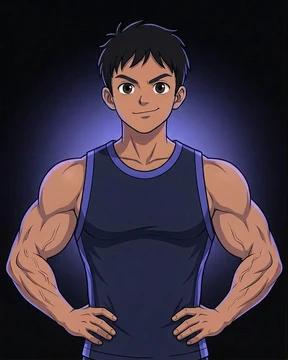
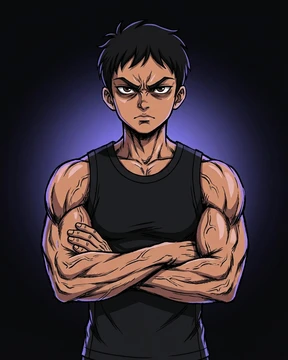
Mert 5-10: siyah atlet, Baki tarzı öfkeli son seviyeler ve aura

diff --git a/index.html b/index.html
@@ -3276,7 +3276,7 @@
       if (set) {
         let bg = '#18181b', ln = 'rgba(255,255,255,0.12)';
         try { const F = AvatarArt.frame(tier); bg = `linear-gradient(${F.bg1}, ${F.bg2})`; ln = F.m[1]; } catch (e) {}
-        return `<div class="av-img" style="background:${bg};box-shadow:inset 0 0 0 2px ${ln}"><img src="avatars/${set}/${tier}.webp?v=3" alt="" decoding="async" onerror="avatarImgFail(this, ${tier})"></div>`;
+        return `<div class="av-img" style="background:${bg};box-shadow:inset 0 0 0 2px ${ln}"><img src="avatars/${set}/${tier}.webp?v=4" alt="" decoding="async" onerror="avatarImgFail(this, ${tier})"></div>`;
       }
       return avatarSvgOnly(tier);
     }

diff --git a/sw.js b/sw.js
@@ -1,6 +1,6 @@
-const CACHE_NAME = 'workout-v16';
+const CACHE_NAME = 'workout-v17';
 const ASSETS = ['./', './index.html', './figures.js', './tracker.js', './cloud.js', './charts.js', './avatar.js', './manifest.json', './icon-192.png', './icon-512.png', './1dk.mp3?v=2', './30s.mp3?v=2', './15s.mp3?v=2', './5s.mp3?v=2'];
-const AVATARS = ['melih', 'mert'].flatMap((s) => Array.from({ length: 11 }, (_, i) => `./avatars/${s}/${i}.webp?v=3`));
+const AVATARS = ['melih', 'mert'].flatMap((s) => Array.from({ length: 11 }, (_, i) => `./avatars/${s}/${i}.webp?v=4`));
 const NAV_TIMEOUT_MS = 3500;
 
 self.addEventListener('install', (e) => {
